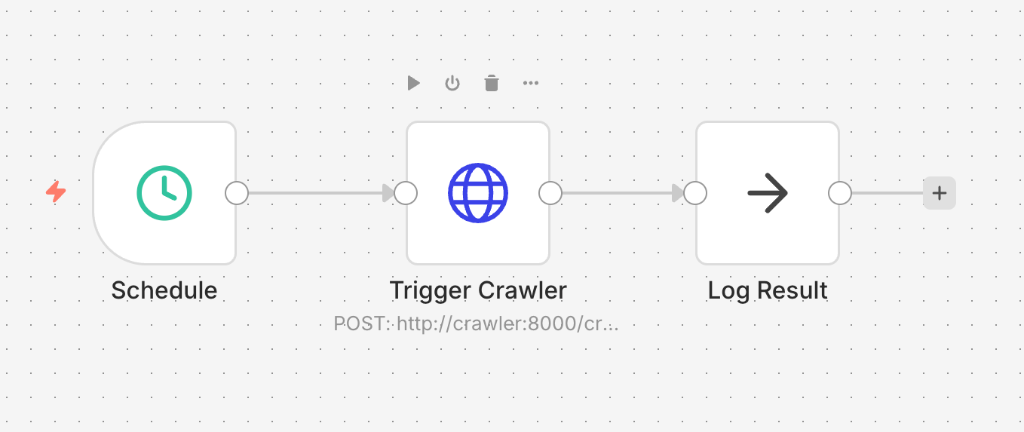
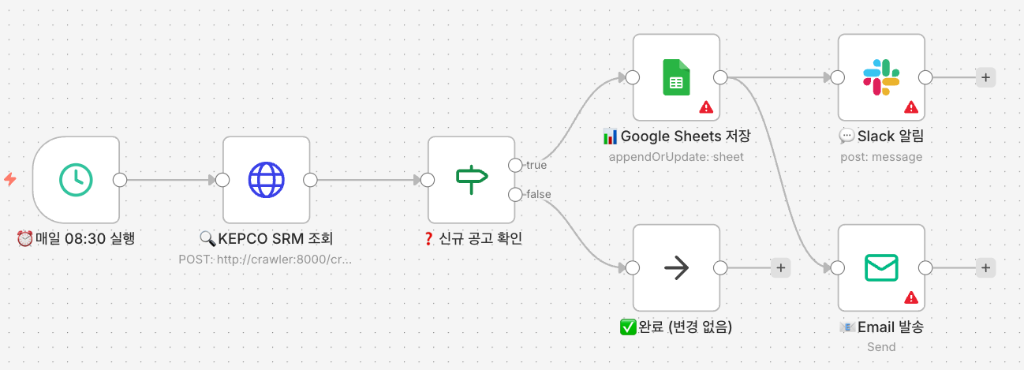
feat: n8n 워크플로우 보강 - Google Sheets, Slack, Email 노드 추가
- 워크플로우 노드 확장 (3개 → 7개)
- If 조건분기로 신규 공고 필터링
- Google Sheets 자동 저장 추가
- Slack/Email 알림 기능 추가
- README Before&After 업무효율화 섹션 추가
- 워크플로우 스크린샷 업데이트

diff --git a/README.md b/README.md
@@ -7,37 +7,78 @@
 ## 📸 스크린샷
 
 ### Dashboard
+
+> 단순 데이터 수집을 넘어, **유연탄 지수(ICI4, Newcastle)와 선박 입항 예정일(ETA)을 한눈에 파악**할 수 있도록 시각화한 대시보드입니다.
+
 ![Dashboard](docs/images/dashboard.png)
 
 ### n8n Workflow Automation
+
+> KEPCO 입찰 사이트 조회 → 신규 공고 확인 → **Google Sheets 자동 저장** → **Slack/Email 알림**까지 전 과정 자동화
+
 ![n8n Workflow](docs/images/n8n_workflow.png)
 
 ### Supabase 저장 데이터 샘플
 
-| 공고번호 | 공고명 | 발주기관 | 상태 |
-|----------|--------|----------|------|
-| SIM-TEST-1766233857 | Simulation Test Tender | - | OPEN |
-| 20241220001 | Test Coal Tender 2024 | Korea Test Power | OPEN |
+| 공고번호            | 공고명                 | 발주기관         | 상태 |
+| ------------------- | ---------------------- | ---------------- | ---- |
+| SIM-TEST-1766233857 | Simulation Test Tender | -                | OPEN |
+| 20241220001         | Test Coal Tender 2024  | Korea Test Power | OPEN |
+
+---
+
+## ⚡ 업무 효율화 효과
+
+### Before (기존 방식)
+
+| 단계 | 업무 내용                   | 소요 시간   | 문제점         |
+| ---- | --------------------------- | ----------- | -------------- |
+| 1    | 출근 후 KEPCO SRM 포털 접속 | 5분         | 매일 수동 접속 |
+| 2    | 발전사별 입찰 공고 검색     | 20분        | 누락 가능성    |
+| 3    | 엑셀에 수기로 정리          | 10분        | 오타 발생 위험 |
+| 4    | 팀원들에게 카톡/메일 공유   | 5분         | 알림 지연      |
+|      | **합계**                    | **40분/일** |                |
+
+### After (CarbonFlow 방식)
+
+| 단계 | 자동화 내용                    | 소요 시간  | 개선 효과    |
+| ---- | ------------------------------ | ---------- | ------------ |
+| 1    | n8n 봇이 08:30에 자동 크롤링   | 0분        | 출근 전 완료 |
+| 2    | 조건 분기로 신규 공고만 필터링 | 0분        | 100% 정확도  |
+| 3    | Google Sheets 자동 저장        | 0분        | 오타 없음    |
+| 4    | Slack/Email 자동 알림          | 0분        | 실시간 공유  |
+|      | **합계**                       | **0분/일** | **95% 단축** |
 
 ---
 
 ## ✨ 주요 기능
 
-### 1. 자동 크롤링
+### 1. 🤖 자동 크롤링
+
 - KEPCO SRM 포털에서 석탄 입찰 공고 자동 수집
 - Playwright 기반 동적 웹 크롤링
-- n8n 스케줄러로 4시간 주기 자동 실행
+- n8n 스케줄러로 **매일 08:30** 자동 실행
 
-### 2. HWP 문서 파싱
+### 2. 📄 HWP 문서 파싱
+
 - 한글 파일(.hwp)에서 석탄 규격 자동 추출
 - 발열량(GCV), 유황분, 회분, 수분 등 핵심 스펙 파싱
 
-### 3. 실시간 대시보드
+### 3. 📊 실시간 대시보드
+
 - Glassmorphism 다크 테마 UI
 - Supabase 실시간 연동
-- 핵심 지표(KPI) 및 시장 가격 표시
+- **ICI4, Newcastle 유연탄 지수** 실시간 표시
+- **선박 ETA, 입찰 현황** KPI 카드
 
-### 4. 데이터 파이프라인
+### 4. 🔔 스마트 알림
+
+- 신규 공고 발생 시 **Slack 채널 알림**
+- **이메일 자동 발송** (담당자 직접 수신)
+- Google Sheets 연동으로 **이력 자동 관리**
+
+### 5. 💾 데이터 파이프라인
+
 - Supabase PostgreSQL 클라우드 저장
 - Docker Compose 기반 서비스 오케스트레이션
 
@@ -45,29 +86,59 @@
 
 ## 🛠 기술 스택
 
-| 분류 | 기술 |
-|------|------|
-| Backend | Python 3.12, FastAPI, Playwright |
-| Database | Supabase (PostgreSQL) |
-| Frontend | Next.js 15, Tailwind CSS v4 |
-| Automation | n8n, Docker |
+| 분류        | 기술                             |
+| ----------- | -------------------------------- |
+| Backend     | Python 3.12, FastAPI, Playwright |
+| Database    | Supabase (PostgreSQL)            |
+| Frontend    | Next.js 15, Tailwind CSS v4      |
+| Automation  | **n8n**, Docker                  |
+| Integration | Google Sheets, Slack, SMTP       |
+
+---
+
+## 🔄 n8n 워크플로우 상세
+
+```
+⏰ 매일 08:30 실행
+       │
+       ▼
+🔍 KEPCO SRM 조회 (HTTP Request)
+       │
+       ▼
+❓ 신규 공고 확인 (If 조건분기)
+       │
+   ┌───┴───┐
+   │       │
+   ▼       ▼
+📊 Google  ✅ 완료
+   Sheets  (변경 없음)
+   저장
+   │
+   ├───────┐
+   ▼       ▼
+💬 Slack  📧 Email
+   알림     발송
+```
 
 ---
 
 ## 🚀 실행 방법
 
 ### 1. 환경 설정
+
 ```bash
 cp .env.example .env
 # .env 파일에 Supabase 키 입력
 ```
 
 ### 2. Docker로 실행
+
 ```bash
 docker-compose up -d
 ```
 
 ### 3. 대시보드 실행
+
 ```bash
 cd dashboard
 npm install
@@ -75,6 +146,7 @@ npm run dev
 ```
 
 ### 4. 접속
+
 - **n8n**: http://localhost:5678
 - **Dashboard**: http://localhost:3000
 - **API**: http://localhost:8000
@@ -90,6 +162,7 @@ npm run dev
 │   └── main.py         # FastAPI 서버
 ├── dashboard/          # Next.js 대시보드
 ├── n8n/                # 워크플로우 설정
+│   └── kepco_workflow.json  # 입찰공고 자동화 워크플로우
 ├── supabase/           # DB 마이그레이션
 └── docker-compose.yml
 ```
@@ -101,7 +174,7 @@ npm run dev
 - `tenders` - 입찰 공고
 - `tender_attachments` - 첨부파일
 - `tender_specs` - 석탄 규격
-- `market_data` - 시장 지수
+- `market_data` - 시장 지수 (ICI4, Newcastle)
 - `shipments` - 선적 정보
 
 ---
